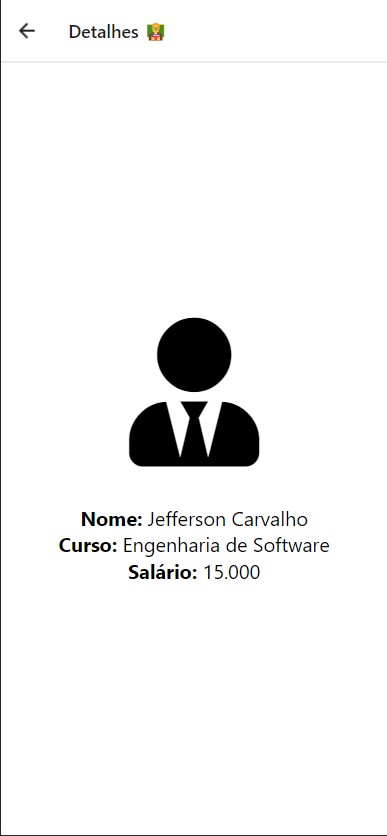
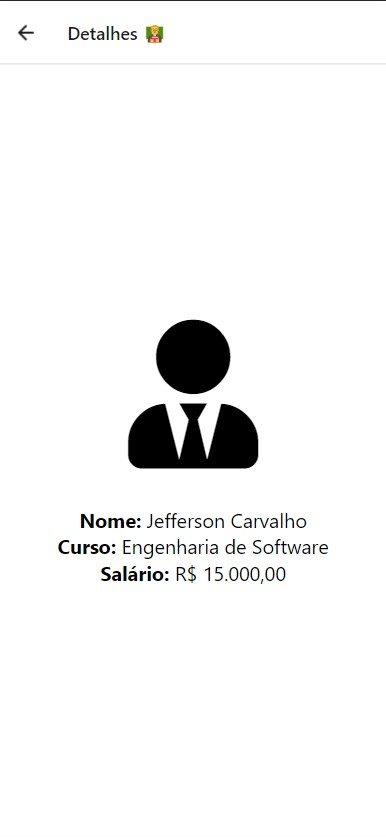
add details

diff --git a/projetos/firebase/src/pages/TeacherDetails/index.jsx b/projetos/firebase/src/pages/TeacherDetails/index.jsx
@@ -43,7 +43,11 @@ export default function TeacherDetails({ route }) {
         <strong>Curso:</strong> {course}
       </Text>
       <Text style={styles.text}>
-        <strong>Salário:</strong> {salary}
+        <strong>Salário:</strong>{" "}
+        {new Intl.NumberFormat("pt-BR", {
+          style: "currency",
+          currency: "BRL",
+        }).format(salary)}
       </Text>
     </View>
   );
